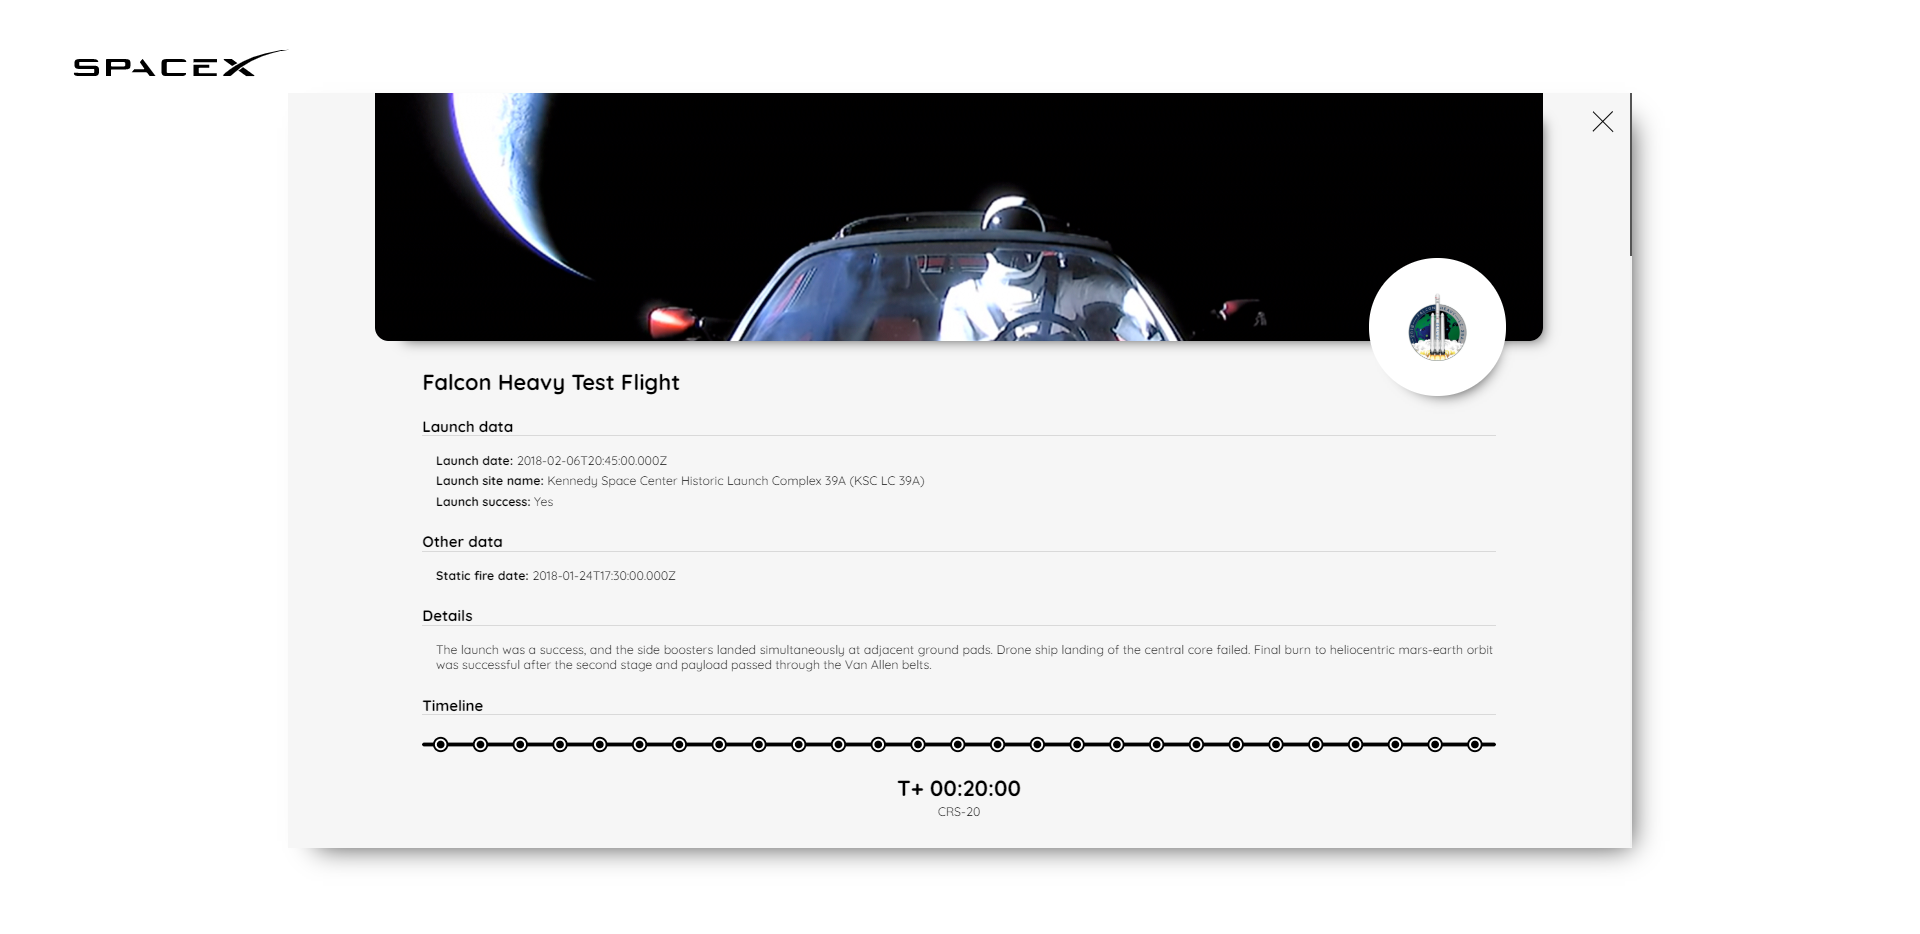
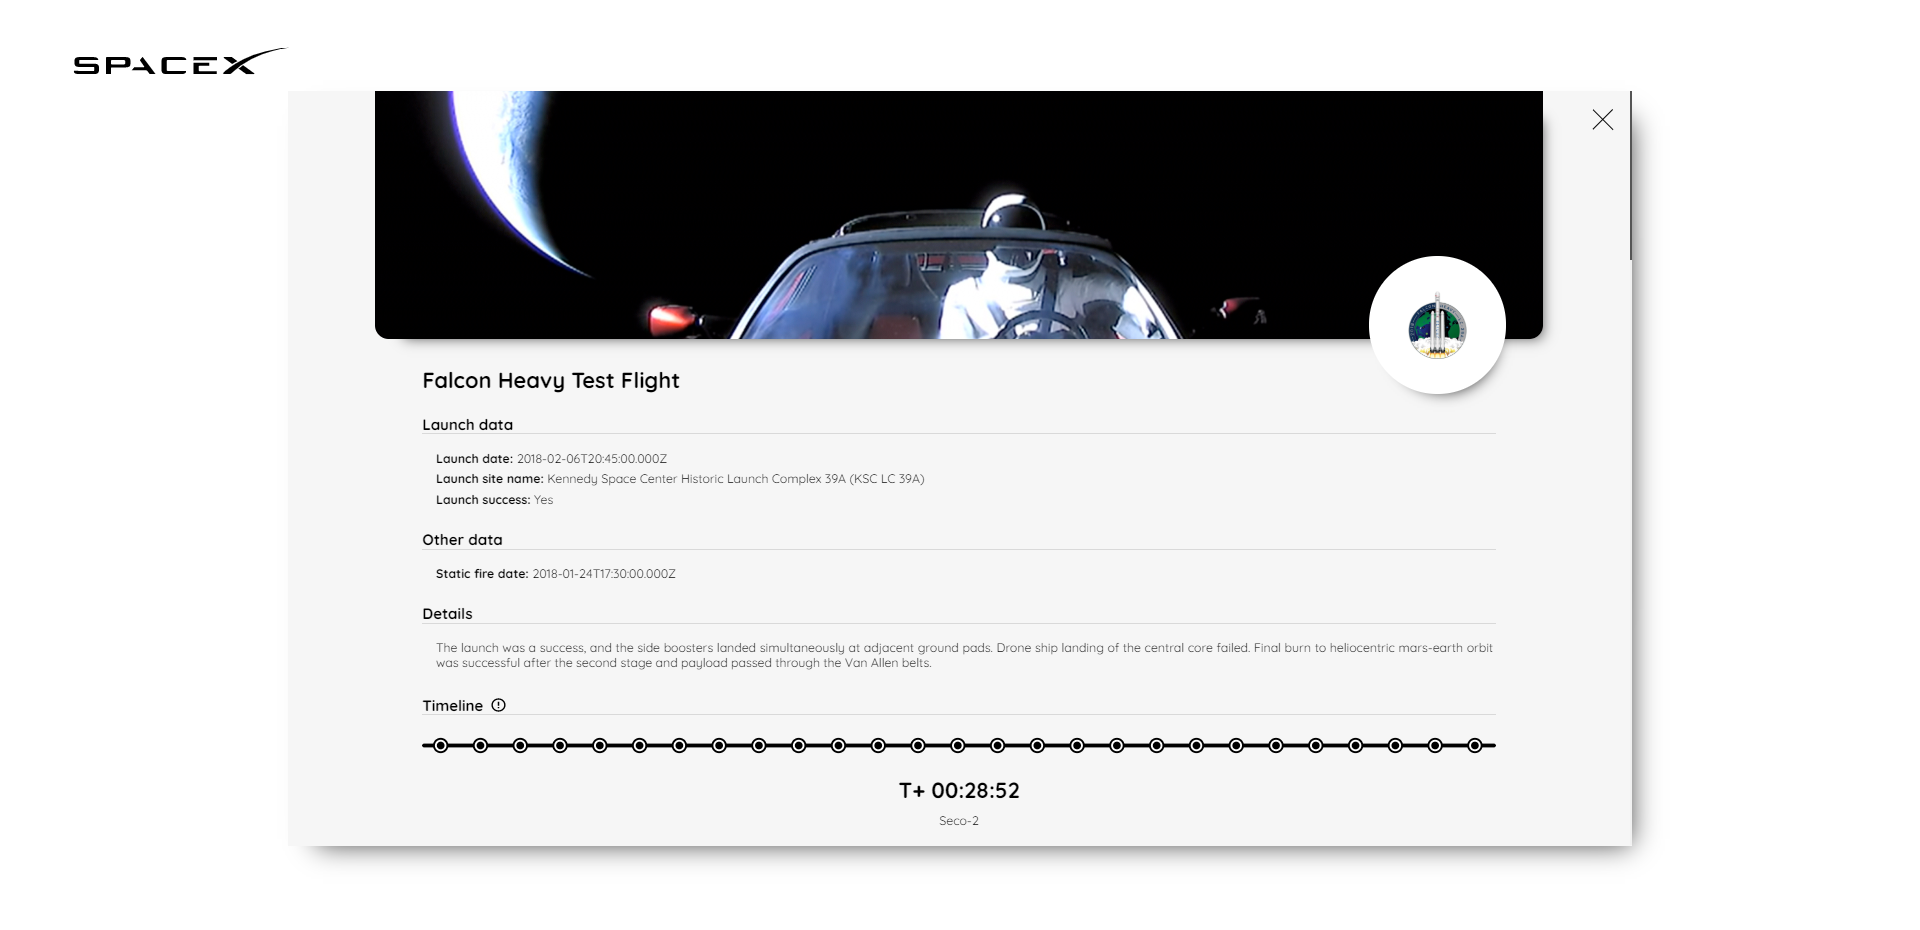
Add small fix to timeline view with modal layout visibility fix

diff --git a/src/components/Modal.vue b/src/components/Modal.vue
@@ -23,7 +23,10 @@
           class="patch"
         />
       </div>
-      <div class="inner_wrapper__name">{{ this.item.mission_name }}</div>
+      <div
+        class="inner_wrapper__name"
+        v-if="this.item.mission_name"
+      >{{ this.item.mission_name }}</div>
       <div class="inner_wrapper__box">
         <div class="inner_wrapper__box__item_title"><b>Launch data</b></div>
         <div
@@ -75,7 +78,10 @@
         <div class="inner_wrapper__box__item_title"><b>Details</b></div>
         <div class="inner_wrapper__box__item_details">{{ this.item.details }}</div>
       </div>
-      <div class="inner_wrapper_timeline">
+      <div
+        class="inner_wrapper_timeline"
+        v-if="this.timeline_lenght"
+      >
         <div class="inner_wrapper_timeline_title"><b>Timeline</b>
           <img
             src="../assets/alert-circle-outline.svg"
@@ -98,7 +104,7 @@
             />
             <g
               class="timeline_marker"
-              v-for="index in (0, parseInt(Object.keys(this.item.timeline).length))"
+              v-for="index in (0, parseInt((this.timeline_lenght !== null ? this.timeline_lenght : 0), 10))"
               :key="index"
               @mouseenter="handleTimelineIn(index - 1)"
               @mouseleave="handleTimelineOut(index - 1)"
@@ -119,7 +125,7 @@
             </g>
             <g
               class="timeline_marker--active"
-              v-for="index in (0, parseInt(Object.keys(this.item.timeline).length))"
+              v-for="index in (0, parseInt((this.timeline_lenght !== null ? this.timeline_lenght : 0), 10))"
               :key="parseInt(timeline_lenght) + index"
               @mouseenter="handleTimelineIn(index - 1)"
               @mouseleave="handleTimelineOut(index - 1)"
@@ -157,44 +163,92 @@
           }}</a>
         </div>
       </div>
-      <div class="inner_wrapper__box">
+      <div
+        class="inner_wrapper__box"
+        v-if="this.item.rocket"
+      >
         <div class="inner_wrapper__box__item_title"><b>Rocket data</b></div>
-        <div class="inner_wrapper__box__item">
+        <div
+          class="inner_wrapper__box__item"
+          v-if="this.item.rocket.rocket_name"
+        >
           <b>Rocket name: </b>{{ this.item.rocket.rocket_name }}
         </div>
-        <div class="inner_wrapper__box__item">
+        <div
+          class="inner_wrapper__box__item"
+          v-if=" this.item.rocket.rocket_type"
+        >
           <b>Rocket type: </b>{{ this.item.rocket.rocket_type }}
         </div>
-        <div class="inner_wrapper__box__item_title"><b>First stage: </b></div>
+        <div
+          class="inner_wrapper__box__item_title"
+          v-if="this.item.rocket.first_stage"
+        ><b>First stage: </b></div>
         <div
           class="inner_wrapper__box__item__box"
           v-for="core in this.item.rocket.first_stage.cores"
           :key="core.core_serial"
         >
           <div class="inner_wrapper__box__item__box_title"><b>Cores</b></div>
-          <div class="inner_wrapper__box__item"><b>Core serial: </b>{{ core.core_serial }}</div>
-          <div class="inner_wrapper__box__item"><b>Flight: </b>{{ core.flight }}</div>
-          <div class="inner_wrapper__box__item"><b>Block: </b>{{ core.block }}</div>
-          <div class="inner_wrapper__box__item">
+          <div
+            class="inner_wrapper__box__item"
+            v-if="core.core_serial"
+          ><b>Core serial: </b>{{ core.core_serial }}</div>
+          <div
+            class="inner_wrapper__box__item"
+            v-if="core.flight"
+          ><b>Flight: </b>{{ core.flight }}</div>
+          <div
+            class="inner_wrapper__box__item"
+            v-if="core.block"
+          ><b>Block: </b>{{ core.block }}</div>
+          <div
+            class="inner_wrapper__box__item"
+            v-if="core.gridfins"
+          >
             <b>Gridfins: </b>{{ core.gridfins ? "Yes" : "No" }}
           </div>
-          <div class="inner_wrapper__box__item"><b>Legs: </b>{{ core.legs ? "Yes" : "No" }}</div>
-          <div class="inner_wrapper__box__item">
+          <div
+            class="inner_wrapper__box__item"
+            v-if="core.legs"
+          ><b>Legs: </b>{{ core.legs ? "Yes" : "No" }}</div>
+          <div
+            class="inner_wrapper__box__item"
+            v-if="core.reused"
+          >
             <b>Reused: </b>{{ core.reused ? "Yes" : "No" }}
           </div>
-          <div class="inner_wrapper__box__item">
+          <div
+            class="inner_wrapper__box__item"
+            v-if="core.land_success"
+          >
             <b>Land success: </b>{{ core.land_success ? "Yes" : "No" }}
           </div>
-          <div class="inner_wrapper__box__item">
+          <div
+            class="inner_wrapper__box__item"
+            v-if="core.landing_intent"
+          >
             <b>Lading intent: </b>{{ core.landing_intent ? "Yes" : "No" }}
           </div>
-          <div class="inner_wrapper__box__item"><b>Landing type: </b>{{ core.landing_type }}</div>
-          <div class="inner_wrapper__box__item">
+          <div
+            class="inner_wrapper__box__item"
+            v-if="core.landing_type"
+          ><b>Landing type: </b>{{ core.landing_type }}</div>
+          <div
+            class="inner_wrapper__box__item"
+            v-if="core.landing_vehicle"
+          >
             <b>Landing vehicle: </b>{{ core.landing_vehicle }}
           </div>
         </div>
-        <div class="inner_wrapper__box__item_title"><b>Second stage: </b></div>
-        <div class="inner_wrapper__box__item">
+        <div
+          class="inner_wrapper__box__item_title"
+          v-if="this.item.rocket.second_stage"
+        ><b>Second stage: </b></div>
+        <div
+          class="inner_wrapper__box__item"
+          v-if="this.item.rocket.second_stage.block"
+        >
           <b>Block: </b>{{ this.item.rocket.second_stage.block }}
         </div>
         <div
@@ -265,12 +319,6 @@
             <div class="inner_wrapper__box__item__box_title"><b>Orbit parameters</b></div>
             <div
               class="inner_wrapper__box__item"
-              v-if="payload.cap_serial"
-            >
-              <b>Cap serial: </b>{{ payload.orbit_params.reference_system }}
-            </div>
-            <div
-              class="inner_wrapper__box__item"
               v-if="payload.orbit_params.reference_system"
             >
               <b>Reference_system: </b>{{ payload.orbit_params.reference_system }}
@@ -285,7 +333,7 @@
               class="inner_wrapper__box__item"
               v-if="payload.orbit_params.longitude"
             >
-              <b>Longitude: </b>{{ payload.orbit_params.longitude }}
+              <b>Longitude: </b>{{ payload.orbit_params.longitude }}&deg;
             </div>
             <div
               class="inner_wrapper__box__item"
@@ -370,7 +418,7 @@
             class="inner_wrapper__box__item"
             v-if="payload.flight_time_sec"
           >
-            <b>Flight time: </b>{{ payload.flight_time_sec }}
+            <b>Flight time: </b>{{ payload.flight_time_sec + " s" }}
           </div>
           <div
             class="inner_wrapper__box__item"
@@ -384,23 +432,35 @@
           v-if="this.item.rocket.fairings"
         >
           <div class="inner_wrapper__box__item_title"><b>Fairings</b></div>
-          <div class="inner_wrapper__box__item">
+          <div
+            class="inner_wrapper__box__item"
+            v-if="this.item.rocket.fairings.recovered"
+          >
             <b>Recovered: </b>{{ this.item.rocket.fairings.recovered ? "Yes" : "No" }}
           </div>
-          <div class="inner_wrapper__box__item">
+          <div
+            class="inner_wrapper__box__item"
+            v-if="this.item.rocket.fairings.recovery_attempt"
+          >
             <b>Recovery attempt: </b>{{ this.item.rocket.fairings.recovery_attempt ? "Yes" : "No" }}
           </div>
-          <div class="inner_wrapper__box__item">
+          <div
+            class="inner_wrapper__box__item"
+            v-if="this.item.rocket.fairings.reused"
+          >
             <b>Reused: </b>{{ this.item.rocket.fairings.reused ? "Yes" : "No" }}
           </div>
-          <div class="inner_wrapper__box__item">
+          <div
+            class="inner_wrapper__box__item"
+            v-if="this.item.rocket.fairings.ship"
+          >
             <b>Ship: </b>{{ this.item.rocket.fairings.ship ? "Yes" : "No" }}
           </div>
         </div>
       </div>
       <div
         class="inner_wrapper__box"
-        v-if="this.item.ships"
+        v-if="this.item.ships.length"
       >
         <div class="inner_wrapper__box__item_title"><b>Ships</b></div>
         <div
@@ -413,7 +473,7 @@
       </div>
       <div
         class="inner_wrapper__gallery"
-        v-if="this.photos"
+        v-if="this.photos.length"
       >
         <div class="inner_wrapper__gallery__inner_title"><b>Gallery</b></div>
         <div class="inner_wrapper__gallery__inner">
@@ -451,7 +511,10 @@
           ></iframe>
         </div>
       </div>
-      <div class="inner_wrapper__box_end">
+      <div
+        class="inner_wrapper__box_end"
+        v-if="this.item.links.reddit_campaign !== null || this.item.links.reddit_launch !== null || this.item.links.reddit_recovery !== null || this.item.links.reddit_media !== null || this.item.links.presskit !== null || this.item.links.article_link !== null || this.item.links.wikipedia !== null"
+      >
         <div class="inner_wrapper__box_end__item_title"><b>Links</b></div>
         <div
           class="inner_wrapper__box_end__item"
@@ -554,7 +617,7 @@ export default {
       photo: this.item.links.mission_patch,
       launch_place_short: this.item.launch_site.site_name,
       photos: this.item.links.flickr_images,
-      timeline_lenght: Object.keys(this.item.timeline).length,
+      timeline_lenght: null,
       timeline_sorted_values: [],
       timeline_sorted_keys: [],
       timeline_keys: [],
@@ -608,29 +671,35 @@ export default {
       return `T+ ${result}`;
     },
     sortTimelineObject() {
-      this.timeline_sorted_values = Object.values(this.item.timeline).sort(this.compareTimelineValues);
-      this.timeline_keys = Object.keys(this.item.timeline);
-      for (let i = 0; i < this.timeline_lenght; i += 1) {
-        for (let j = 0; j < this.timeline_lenght; j += 1) {
-          if (this.timeline_sorted_values[i] === this.item.timeline[this.timeline_keys[j]]) {
-            this.timeline_sorted_keys[i] = this.timeline_keys[j];
-            this.timeline_keys.splice(j, 1);
+      if (this.timeline_lenght !== null) {
+        this.timeline_sorted_values = Object.values(this.item.timeline).sort(this.compareTimelineValues);
+        this.timeline_keys = Object.keys(this.item.timeline);
+        for (let i = 0; i < this.timeline_lenght; i += 1) {
+          for (let j = 0; j < this.timeline_lenght; j += 1) {
+            if (this.timeline_sorted_values[i] === this.item.timeline[this.timeline_keys[j]]) {
+              this.timeline_sorted_keys[i] = this.timeline_keys[j];
+              this.timeline_keys.splice(j, 1);
+            }
           }
         }
       }
     },
     handleTimelineIn(index) {
-      $('.inner_wrapper_timeline_value').text(this.timelineDateFormat(this.timeline_sorted_values[index])).animate({ opacity: 1 }, 500);
-      $('.inner_wrapper_timeline_insert').text(
-        this.timeline_sorted_keys[index] !== undefined
-          ? this.timeline_sorted_keys[index].replace(/_/g, ' ') : 'undefined',
-      ).css({ 'text-transform': 'capitalize' }).animate({ opacity: 1 }, 500);
-      $(`.timeline_marker:nth-child(${index + 2})`).delay(200).animate({ opacity: 0 }, 500);
-      $(`.timeline_marker--active:nth-child(${this.timeline_lenght + index + 2})`).delay(200).animate({ opacity: 1 }, 500);
+      if (this.timeline_lenght !== null) {
+        $('.inner_wrapper_timeline_value').text(this.timelineDateFormat(this.timeline_sorted_values[index])).animate({ opacity: 1 }, 500);
+        $('.inner_wrapper_timeline_insert').text(
+          this.timeline_sorted_keys[index] !== undefined
+            ? this.timeline_sorted_keys[index].replace(/_/g, ' ') : 'undefined',
+        ).css({ 'text-transform': 'capitalize' }).animate({ opacity: 1 }, 500);
+        $(`.timeline_marker:nth-child(${index + 2})`).delay(200).animate({ opacity: 0 }, 500);
+        $(`.timeline_marker--active:nth-child(${this.timeline_lenght + index + 2})`).delay(200).animate({ opacity: 1 }, 500);
+      }
     },
     handleTimelineOut(index) {
-      $(`.timeline_marker--active:nth-child(${this.timeline_lenght + index + 2})`).delay(200).animate({ opacity: 0 }, 500);
-      $(`.timeline_marker:nth-child(${index + 2})`).delay(200).animate({ opacity: 1 }, 500);
+      if (this.timeline_lenght !== null) {
+        $(`.timeline_marker--active:nth-child(${this.timeline_lenght + index + 2})`).delay(200).animate({ opacity: 0 }, 500);
+        $(`.timeline_marker:nth-child(${index + 2})`).delay(200).animate({ opacity: 1 }, 500);
+      }
     },
     handleTooltipTimelineIn() {
       $('.tooltip_timeline').animate({ opacity: 1 }, 500);
@@ -643,6 +712,7 @@ export default {
     },
   },
   mounted() {
+    this.timeline_lenght = this.item.timeline !== null ? Object.keys(this.item.timeline).length : null;
     $('.item__photo_right').css('background-image', `url("${this.photos[2]}")`);
     $('.inner_wrapper__gallery__inner__item_3').css('background-image', `url("${this.photos[1]}")`);
     $('.item__photo_left').css('background-image', `url("${this.photos[0]}")`);
@@ -842,7 +912,7 @@ export default {
         opacity: 0;
         background-color: #41414159;
 
-         @media (max-width: 767px) {
+        @media (max-width: 767px) {
           display: none;
         }
 
@@ -883,7 +953,7 @@ export default {
 
     .inner_wrapper_timeline_value {
       width: 100%;
-      height: 20px;
+      height: 60px;
       font-size: 16px;
       font-weight: 700;
       text-align: center;
@@ -897,7 +967,7 @@ export default {
 
     .inner_wrapper_timeline_insert {
       width: 100%;
-      height: 20px;
+      height: 30px;
       font-size: 9px;
       font-weight: 400;
       text-align: center;
